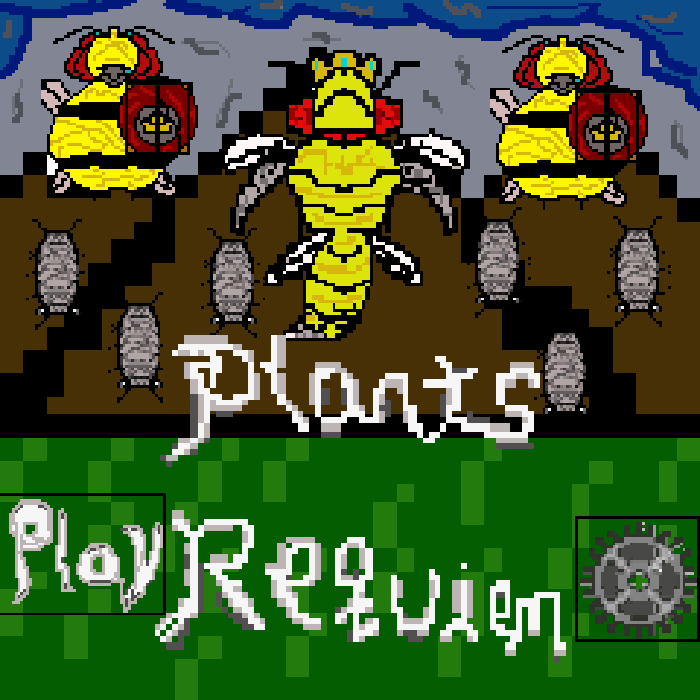
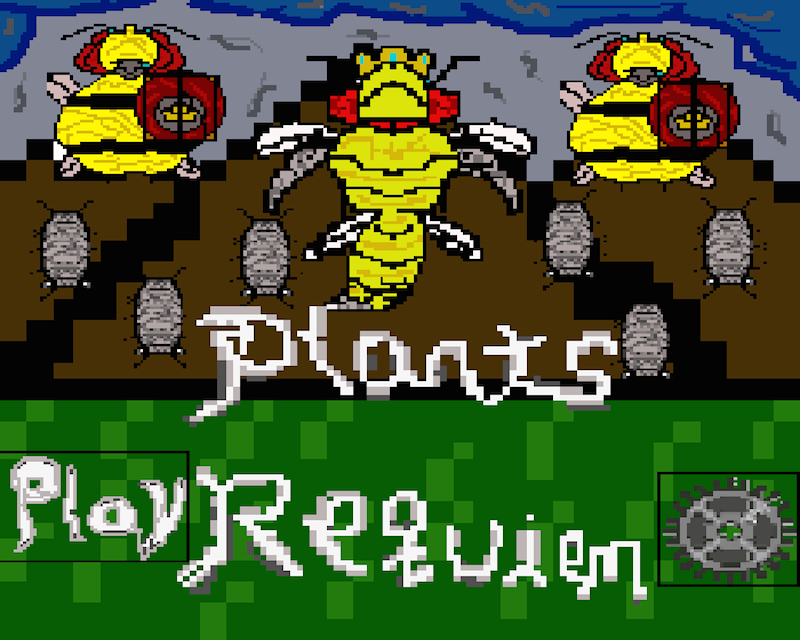
l

diff --git a/src/td/entities/Wave.java b/src/td/entities/Wave.java
@@ -19,6 +19,8 @@ public class Wave {
     private CopyOnWriteArrayList<Enemy> enemies;
     private int enemiesPerWave, enemiesSpawned;
     private boolean waveCompleted;
+    private boolean allEnemiesDead;
+    private int count;
 
     public Wave(Enemy[] enemyTypes, float spawnTime, int enemiesPerWave) {
         this.enemyTypes = enemyTypes;
@@ -28,15 +30,15 @@ public class Wave {
         this.enemiesSpawned = 0;
         this.enemies = new CopyOnWriteArrayList<Enemy>();
         this.waveCompleted = false;
+        this.count = 0;
 
 
         spawn();
     }
 
     public void update() {
-        boolean allEnemiesDead = true;
         //Assume all enemies are dead, until loop proves otherwise
-        if (enemiesSpawned < enemiesPerWave) {
+        if (enemiesSpawned <= enemiesPerWave) {
             timeSinceLastSpawn += delta();
             if (timeSinceLastSpawn > spawnTime) {
                 spawn();
@@ -50,7 +52,11 @@ public class Wave {
                 e.update();
                 e.draw();
             } else {
-                enemies.remove(e);
+                if (count == 0) {
+                    enemies.remove(e);
+                    count = 1;
+                }
+                count = 0;
             }
         }
         if (allEnemiesDead) {

diff --git a/src/td/main/state/MainMenu.java b/src/td/main/state/MainMenu.java
@@ -15,7 +15,7 @@ public class MainMenu {
     private UI menuUI;
 
     public MainMenu() {
-        background = quickLoad("background/Graveyard");
+        background = quickLoad("background/BackgroundMain");
         menuUI = new UI();
         menuUI.addButton("Play", "sprite/play_button", WIDTH / 2 - 128, (int) (HEIGHT * 0.25f));
         menuUI.addButton("Editor", "sprite/Play", WIDTH / 2 - 128, (int) (HEIGHT * 0.45f));
@@ -36,7 +36,9 @@ public class MainMenu {
     }
 
     public void update() {
-        //drawQuadTex(background, 0, 0, 2048, 1024); // TODO: 6/8/17 Get an image for the background of the application 
+        if (background != null) {
+            drawQuadTex(background, 0, 0, 0, 0);
+        }
         drawQuad(0, 0, WIDTH, HEIGHT);
         menuUI.draw();
         updateButtons();

diff --git a/src/td/main/Game.java b/src/td/main/Game.java
@@ -35,7 +35,7 @@ public class Game {
         this.grid = grid;
         this.enemyTypes = new Enemy[2];
         this.enemyTypes[1] = new EnemyQueenHornet(0, 0, grid);
-        this.enemyTypes[0] = new EnemyBeeticusBruticus(quickLoad("sprite/enemy/BeeticusBruticus.png"), grid.getTile(0, 0),grid, TILE_SIZE, TILE_SIZE, 10, 50);
+        this.enemyTypes[0] = new EnemyBeeticusBruticus(quickLoad("sprite/enemy/BeeticusBruticus"), grid.getTile(0, 0),grid, TILE_SIZE, TILE_SIZE, 10, 50);
         this.waveManager = new WaveManager(enemyTypes, 5, 3);
 
         this.player = new Player(grid, waveManager);

diff --git a/src/td/entities/enemy/Enemy.java b/src/td/entities/enemy/Enemy.java
@@ -210,14 +210,14 @@ public class Enemy implements Entity {
     //Take damage from external source
     public void damage(int amount) {
         health -= amount;
-        if (health <= 0) {
+        if (health < 0) {
             die();
             Player.modifyGold(5);
         }
     }
 
     private void die() {
-        alive = false;
+        this.alive = false;
     }
 
     public void draw() {
